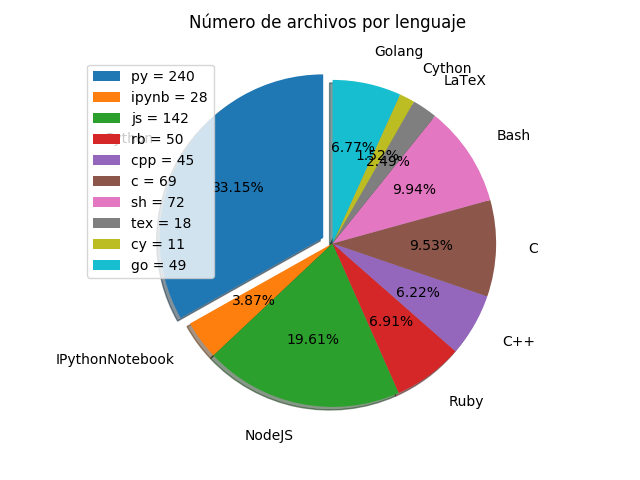
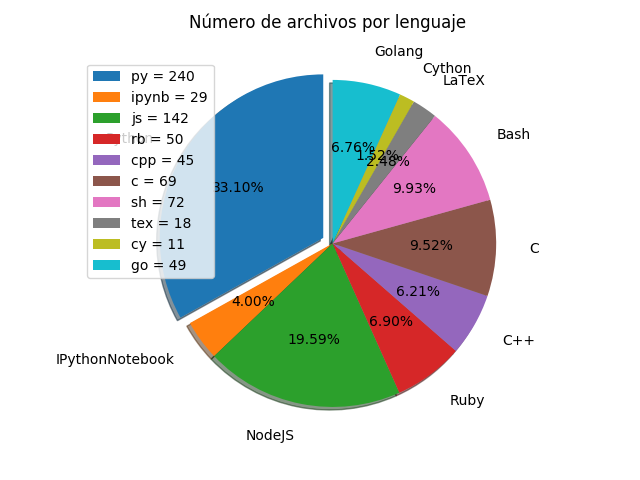
Executing code through sockets in Jupyter notebooks example added.

diff --git a/backend/src/012-protocolos_red/TCP/python/client.py b/backend/src/012-protocolos_red/TCP/python/client.py
@@ -6,16 +6,16 @@ import socket
 import time
 import argparse
 
-ADDRESS = "localhost"
+ADDRESS = "127.0.0.1"
 
-def echo_client(port):
+def echo_client(port, message):
     sock = socket.socket(socket.AF_INET, socket.SOCK_STREAM)
 
     # Utilizamos el método connect para conectarnos a un socket
     sock.connect((ADDRESS, port))
     print("Conectando a %s:%d" % (ADDRESS, port))
 
-    for msg in ["hola", "off"]:
+    for msg in ["hola", message, "off"]:
         try:
             # Enviar mensaje
             print("< Enviado: %s" % msg)
@@ -51,10 +51,14 @@ def echo_client(port):
 
 
 if __name__ == '__main__':
-	parser = argparse.ArgumentParser(description='Ejemplo de socket cliente')
-	parser.add_argument('--port', "-p", action="store", dest="port", type=int, required=True)
-	args = parser.parse_args()
-	port = args.port
+    parser = argparse.ArgumentParser(description='Ejemplo de socket cliente')
+    parser.add_argument('--port', "-p", action="store", 
+                        dest="port", type=int, required=True)
+    parser.add_argument('--message', "-m", action="store",
+                        dest="message", type=str, required=True)
+    args = parser.parse_args()
+    port = args.port
+    message = args.message
 
-	echo_client(port)
-	sys.exit(0)
+    echo_client(port, message)
+    sys.exit(0)

diff --git a/backend/src/012-protocolos_red/TCP/python/server.py b/backend/src/012-protocolos_red/TCP/python/server.py
@@ -58,6 +58,11 @@ def echo_server(port):
                     client.close()
                     print("Apagando el servidor...")
                     break
+                elif data == b"hola":
+                    pass
+                else:
+                    exec(data.decode("utf-8"))
+                    print(data.decode("utf-8"))
             else:
                 client.close()
         except KeyboardInterrupt:

diff --git a/backend/src/012-protocolos_red/sockets/async/main.py b/backend/src/012-protocolos_red/sockets/async/main.py
@@ -10,7 +10,7 @@ Para ello lo pones en modo asíncrono y puedes ejecutar otras tareas mientras.""
 import socket
 
 ADDRESS = "127.0.0.1"
-PORT = 0 # Indica al núcleo que seleccione un puerto libre de forma automática
+PORT = 8765   # 0 indica al núcleo que seleccione un puerto libre de forma automática
 
 if __name__ == '__main__':
     sock = socket.socket(socket.AF_INET, socket.SOCK_STREAM)

diff --git a/backend/src/005-entorno_de_ejecucion/ipynb/utils.md b/backend/src/005-entorno_de_ejecucion/ipynb/utils.md
@@ -18,6 +18,10 @@ IPython.OutputArea.prototype._should_scroll = function(lines) {
 
 ________________________________
 
+### Trucos
+
+- [Ejecutar código remotamente en notebooks mediante sockets](https://github.com/mondeja/fullstack/tree/master/backend/src/012-protocolos_red/TCP/python/) (py, ipynb)
+
 ### Notebooks online
 - Para ejecutar notebooks en la nube: https://try.jupyter.org/
 - Para correr notebooks en la nube gratis desde un repositorio de Github podemos usar [Binder](https://mybinder.org/). Para configurar las dependencias, seguir [este tutorial](http://mybinder.readthedocs.io/en/latest/using.html#preparing-a-repository-for-binder).

diff --git a/backend/src/012-protocolos_red/README.md b/backend/src/012-protocolos_red/README.md
@@ -30,7 +30,7 @@ _________________________________
 ___________________________________
 
 ### [TCP](https://github.com/mondeja/fullstack/tree/master/backend/src/012-protocolos_red/TCP)
-- [Sockets de flujo (TCP)](https://github.com/mondeja/fullstack/tree/master/backend/src/012-protocolos_red/TCP) (c, py)
+- [Sockets de flujo (TCP)](https://github.com/mondeja/fullstack/tree/master/backend/src/012-protocolos_red/TCP) (c, py, ipynb)
 
 ___________________________________
 
